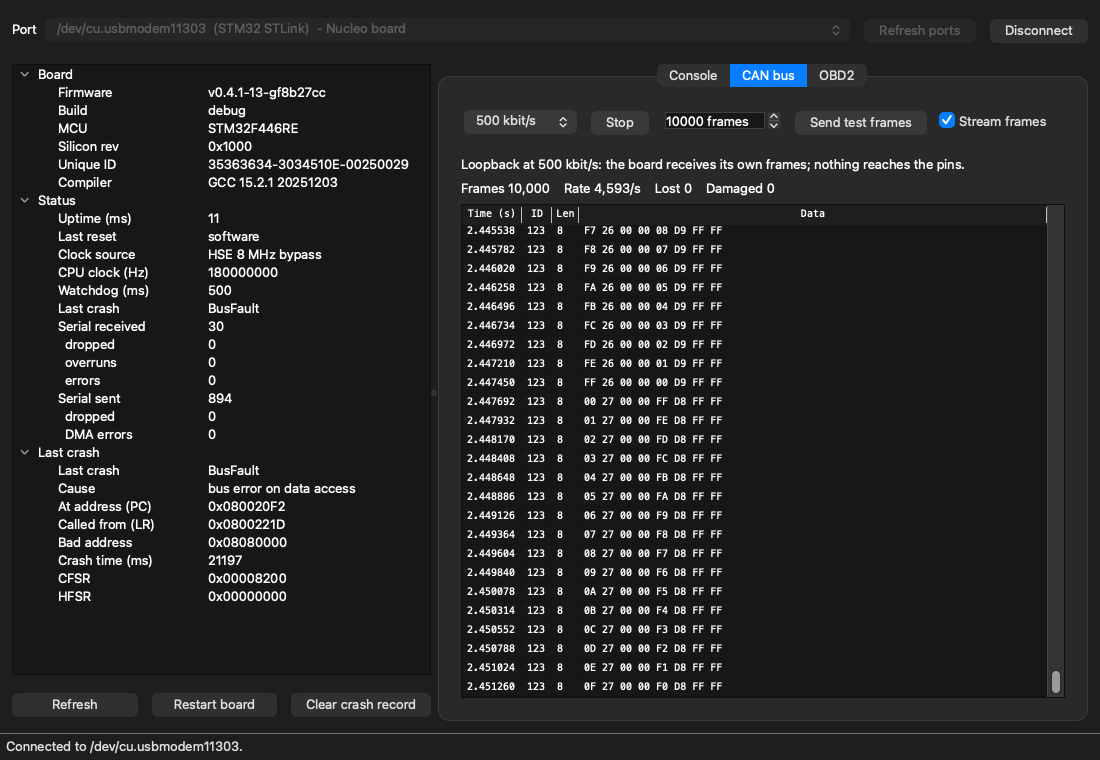
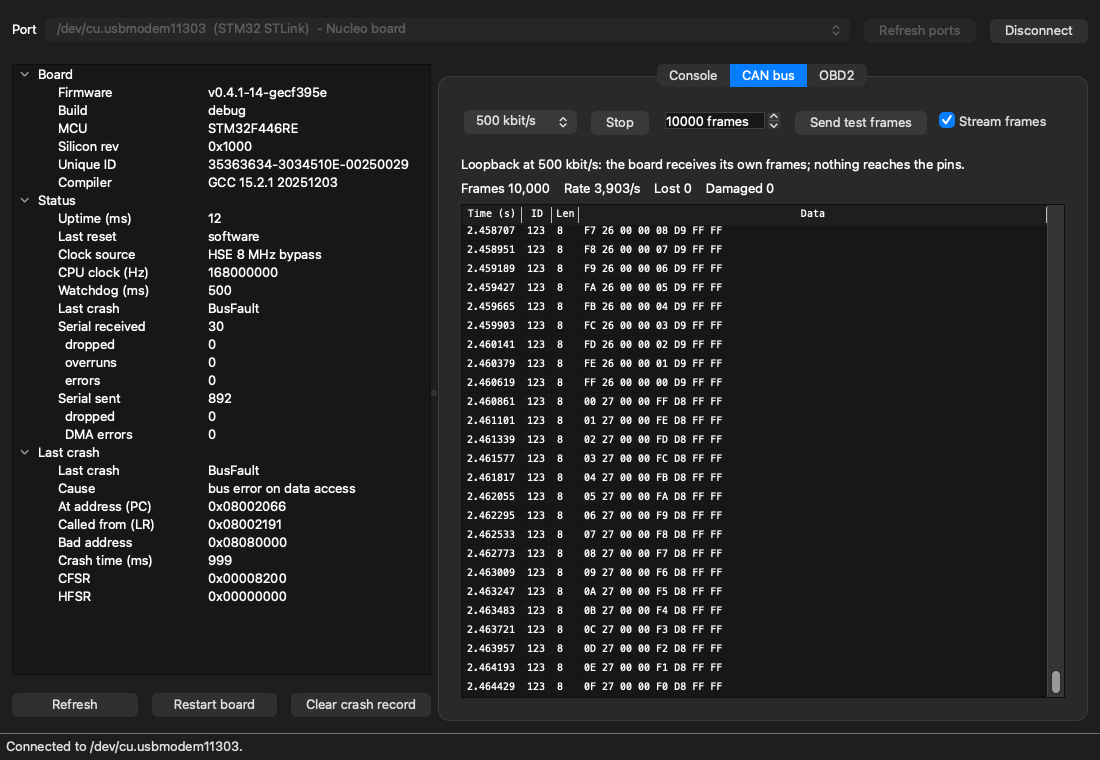
docs: retake the desktop app screenshots at 168 MHz

diff --git a/host/README.md b/host/README.md
@@ -135,7 +135,7 @@ vehicle speed, throttle, engine load, coolant and intake temperature and run tim
 light, stored trouble codes, the VIN, and the request counters. **Stop** stops the questions, and
 the board then sends nothing more: it never asks on its own.
 
-![The OBD2 tab on the board: 102 questions asked by the laptop in about 5 seconds, every one answered](../docs/images/desktop-app-obd.png)
+![The OBD2 tab on the board: 101 questions asked by the laptop in about 5 seconds, every one answered](../docs/images/desktop-app-obd.png)
 
 The connection to the board runs on its own thread, so the window stays responsive even while the
 board restarts or thousands of frames a second stream in.
